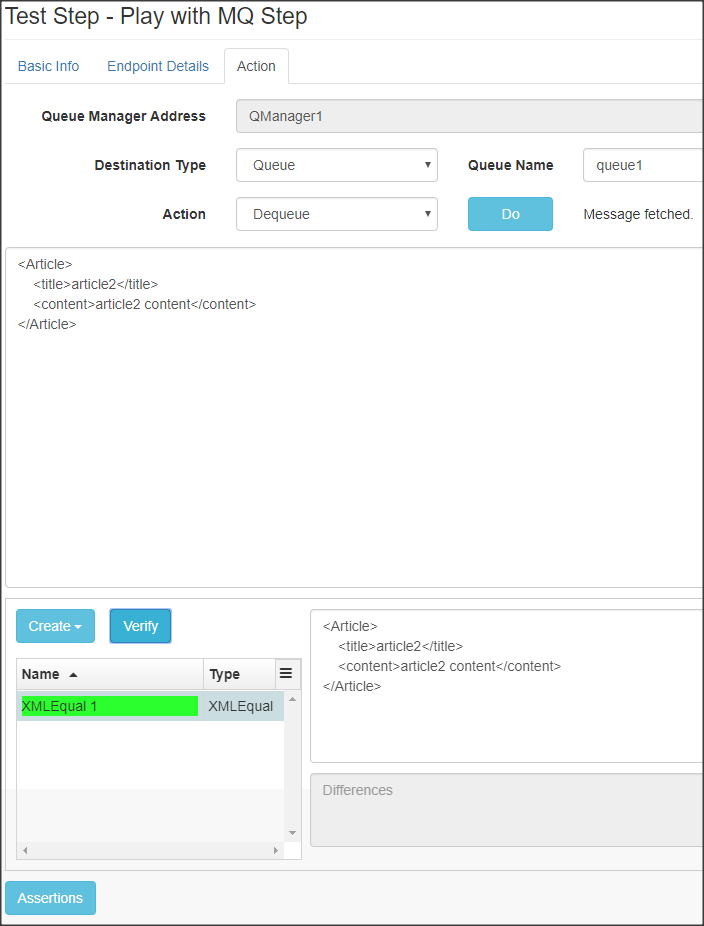
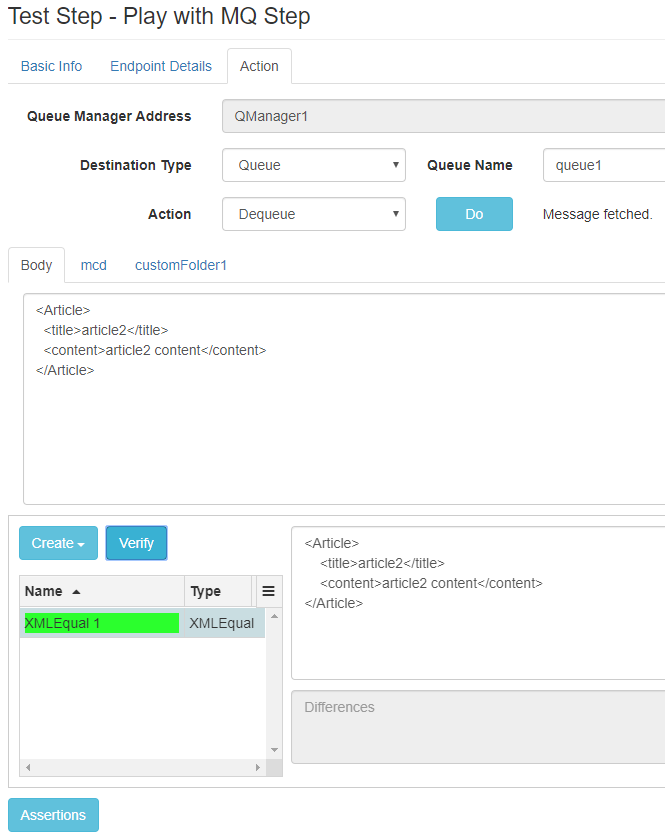
support MQRFH2 header in MQ test step Dequeue action

Changed region(s): [[0.0, 0.0, 1.0, 1.0], [0.0, 0.0, 0.4812, 0.031]]

diff --git a/irontest-core-ui/src/main/resources/assets/app/js/assertions/assertions-controller.js b/irontest-core-ui/src/main/resources/assets/app/js/assertions/assertions-controller.js
@@ -117,8 +117,12 @@ angular.module('irontest').controller('AssertionsController', ['$scope', '$rootS
         } else {
           input = apiResponse.httpBody;
         }
-      } else if ($scope.teststep.type === 'MQ' && assertion.type === 'HasAnMQRFH2FolderEqualToXml') {
-        input = apiResponse.mqrfh2Header;
+      } else if ($scope.teststep.type === 'MQ') {
+        if (assertion.type === 'HasAnMQRFH2FolderEqualToXml') {
+          input = apiResponse.mqrfh2Header;
+        } else {
+          input = apiResponse.bodyAsText;
+        }
       } else {
         input = apiResponse;
       }
